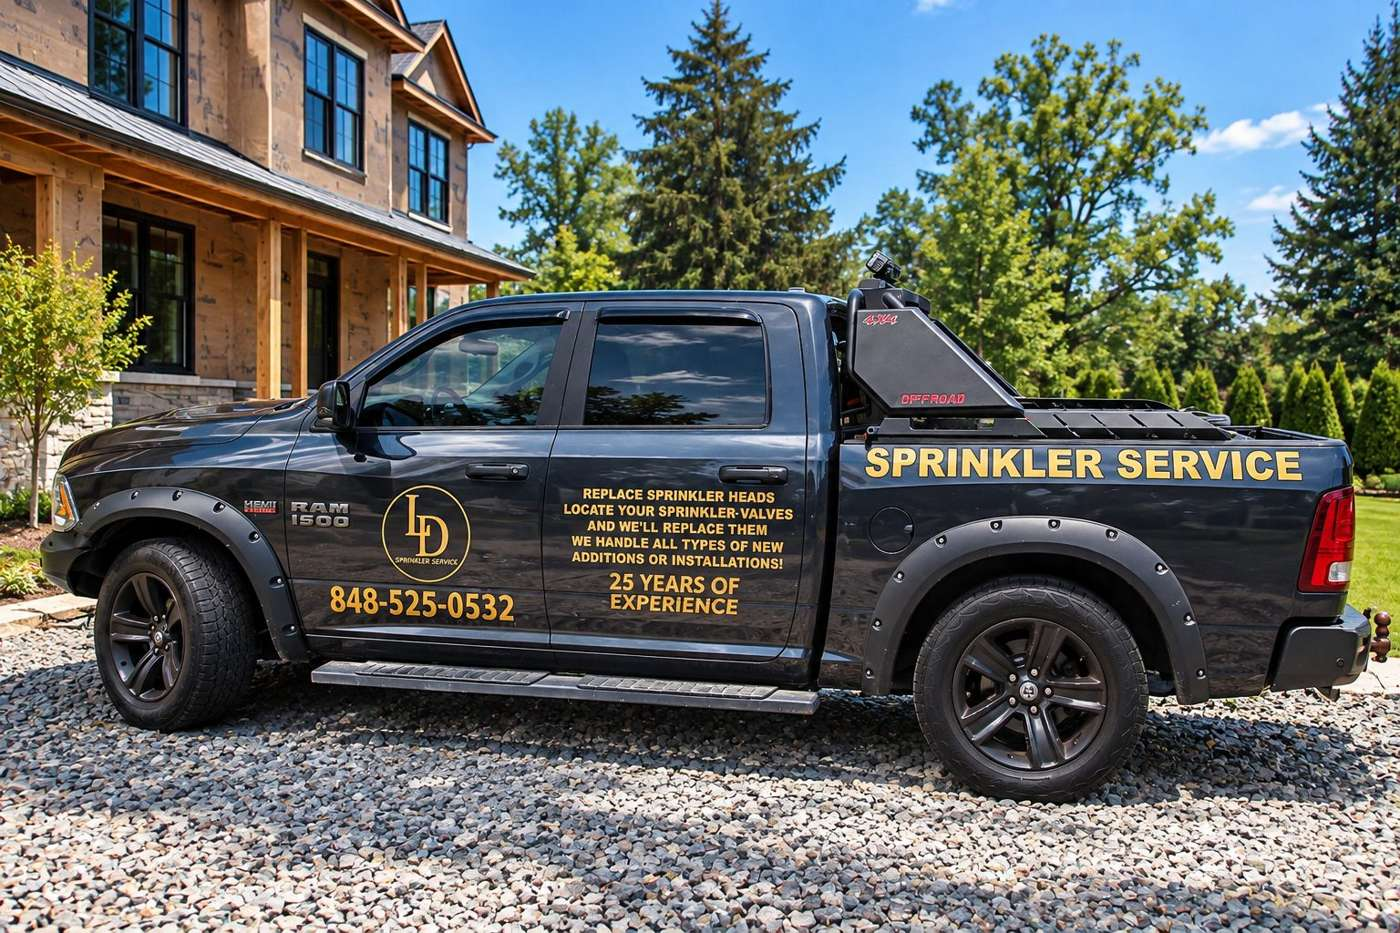
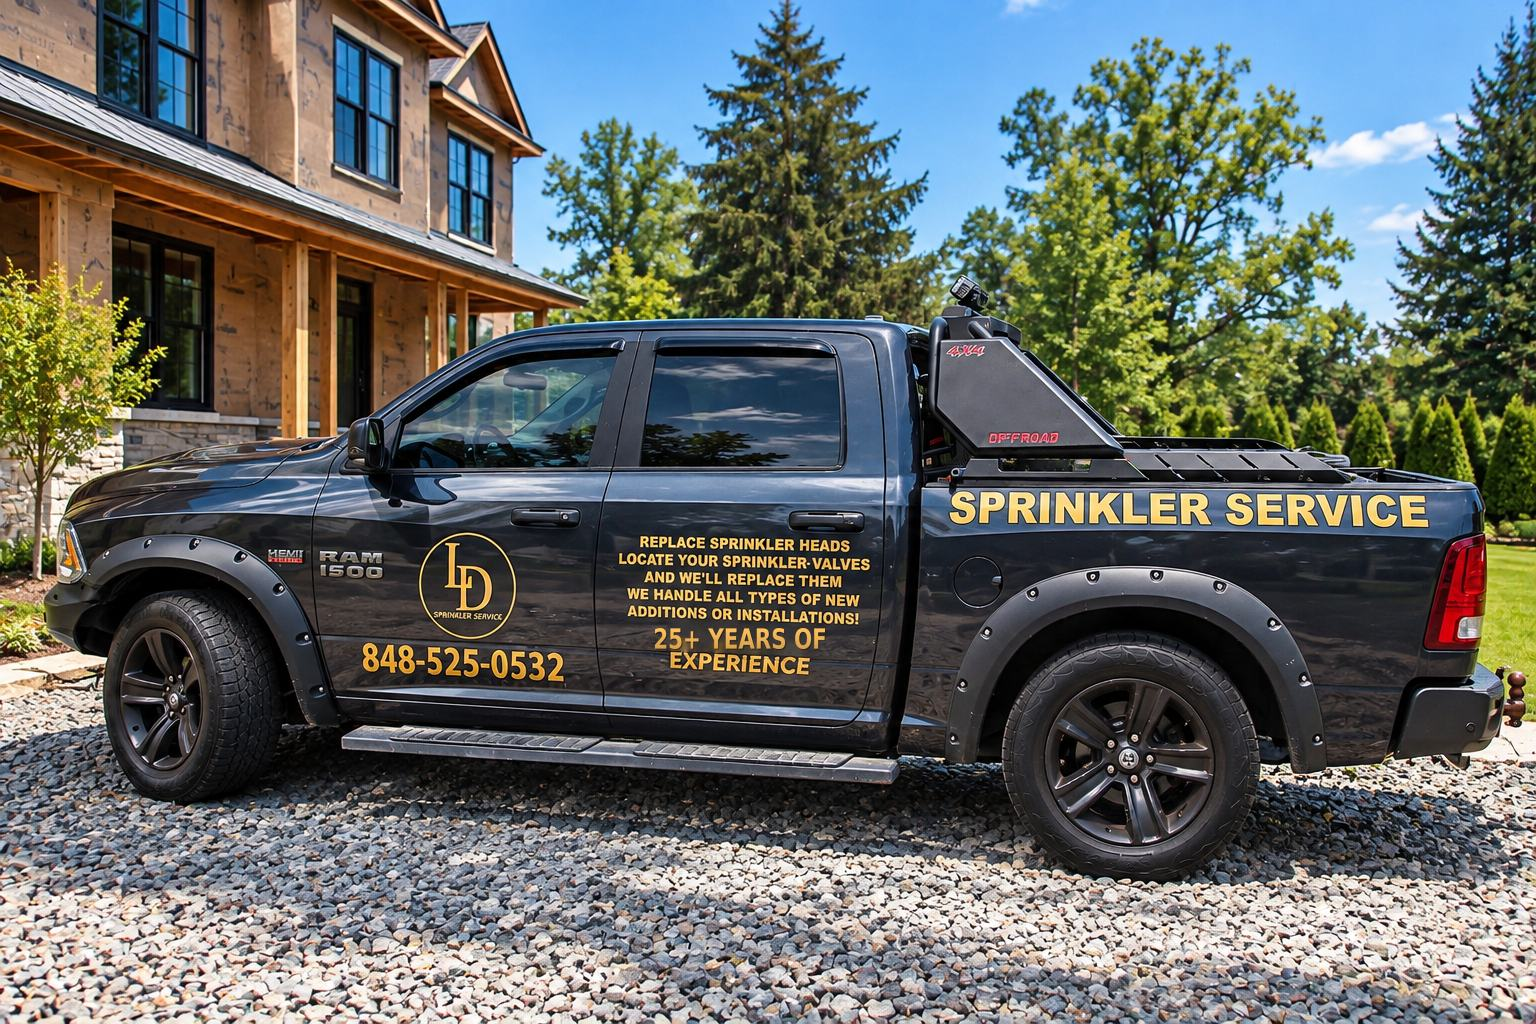
Bolder service-area line in hero; trucks say 25+ years of experience
Claude-Session: https://claude.ai/code/session_015CdVwxxU6m5SAg8a3gnGzL

diff --git a/index.html b/index.html
@@ -269,7 +269,7 @@ h2.help-h{font-size:34px!important;white-space:nowrap!important}
 .about{grid-template-columns:minmax(0,1fr);gap:28px}
 .about-bg{padding:64px 0}
 .about-num{font-size:34px}
-.hero-area{font-size:15px!important}
+.hero-area{font-size:16px!important;padding:8px 12px!important}
 .faq{grid-template-columns:minmax(0,1fr);gap:32px}
 .faq-bg{padding:64px 0}
 .faq-item summary{font-size:17px;padding:18px 2px}
@@ -331,7 +331,7 @@ h2.help-h{font-size:34px!important;white-space:nowrap!important}
 <div class="wrap" style="position: relative; padding-top: 120px; padding-bottom: 72px">
 <div style="max-width: 820px; display: flex; flex-direction: column; gap: 24px">
 <h1 class="cond" style="margin: 0; font-weight: 800; color: #FFFFFF">Professional Sprinkler &amp; Irrigation Services in Ocean County, NJ</h1>
-<p class="hero-area" style="margin: -8px 0 0; font-size: 17px; font-weight: 600; color: #D9A83A">Serving Ocean, Monmouth, Middlesex &amp; Union counties, from Toms River to Elizabeth</p>
+<p class="hero-area" style="margin: -6px 0 0; align-self: flex-start; padding: 9px 16px; background: rgba(31,34,38,0.82); border: 1px solid #D9A83A; border-radius: 4px; font-size: 20px; line-height: 1.3; font-weight: 700; color: #F2C25B; text-shadow: 0 1px 2px rgba(0,0,0,0.6)">Serving Ocean, Monmouth, Middlesex &amp; Union Counties</p>
 <p style="margin: 0; font-size: 21px; line-height: 1.5; color: #F2F3EF; max-width: 640px">Our mission is to make caring for your property simple, stress-free and dependable, treating every home like our own with careful, honest work done right the first time.</p>
 <div style="display: flex; flex-wrap: wrap; gap: 14px; padding-top: 6px">
 <a class="btn btn-gold" href="tel:+18485250532">
@@ -378,7 +378,7 @@ Call 848-525-0532</a>
 </div>
 
 <article class="svc-top" id="svc-sprinkler">
-<img src="images/truck-side.jpg" srcset="images/truck-side-800.jpg 800w, images/truck-side.jpg 1400w" sizes="(max-width: 960px) 100vw, 1160px" loading="lazy" decoding="async" alt="LD Sprinkler Systems service truck parked in a driveway">
+<img src="images/truck-side.jpg" srcset="images/truck-side-800.jpg 1000w, images/truck-side.jpg 1536w" sizes="(max-width: 960px) 100vw, 1160px" loading="lazy" decoding="async" alt="LD Sprinkler Systems service truck parked in a driveway">
 <div style="padding: 48px 48px 52px; display: flex; flex-direction: column; gap: 22px; color: #FFFFFF">
 <span style="font-size: 15px; font-weight: 600; color: #D9A83A">Our Specialty</span>
 <h3 class="cond" style="margin: 0; font-size: 46px; line-height: 1; font-weight: 800; color: #FFFFFF">Sprinkler &amp; Irrigation Service</h3>
